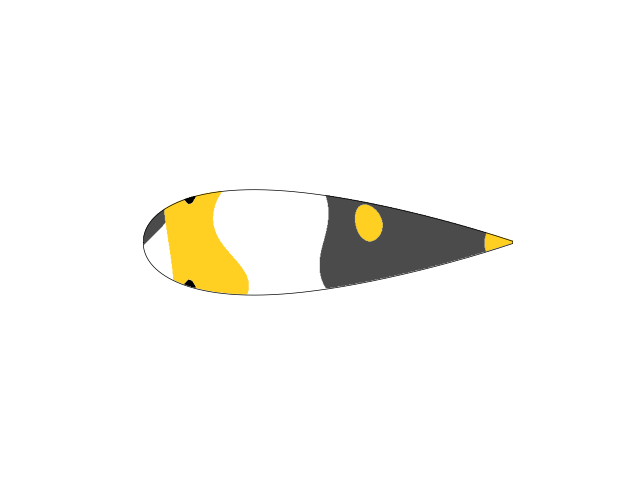
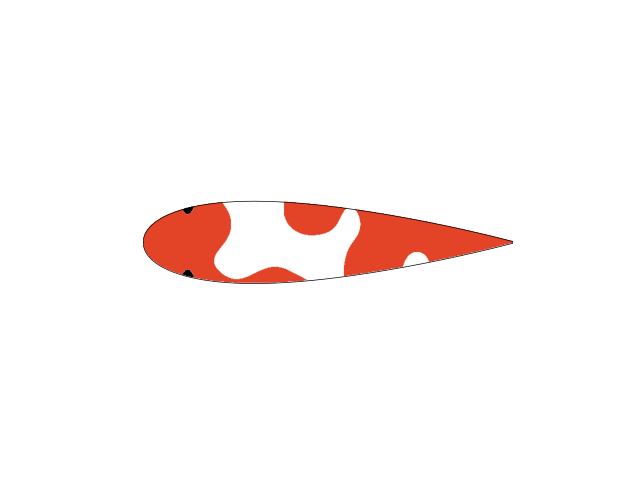
Testing threading KOI 'worked'

Changed region(s): [[0.2188, 0.375, 0.8125, 0.625]]

diff --git a/testing.py b/testing.py
@@ -1,15 +1,104 @@
-import math
+from asyncio.windows_events import NULL
+from concurrent.futures import thread
+import tkinter as tk
+from airfoil import *
+import numpy as np
+import time
+from Koi import Koi
+from tkKoi import tkKoi
+from queue import Empty, Queue
+from threading import Thread
 
-dx = 150 - 250
-dy = 350 - 250
 
-if dx > 0 and dy > 0:
-    target_angle = math.degrees(math.atan(dy/dx)) - 180
-elif dx > 0 and dy < 0:
-    target_angle = math.degrees(math.atan(dy/dx)) + 180
-elif dx < 0 and dy > 0:
-    target_angle = math.degrees(math.atan(dy/dx))
-elif dx < 0 and dy < 0:
-    target_angle = math.degrees(math.atan(dy/dx))
+red1 = np.array((227, 68, 39, 255))
+orange1 = np.array((241, 99, 35, 255))
+yellow1 = np.array((255, 208, 33, 255))
+black1 = np.array((75, 75, 75, 255))
+white = np.array((255, 255, 255, 255))
+transparent = np.array((255, 255, 255, 0))
+eyeblack = np.array((0, 0, 0, 255))
 
-print(target_angle)
+color_list = [ red1,
+                orange1,
+                yellow1,
+                black1
+                ]
+
+WIDTH = 1000
+HEIGHT = 1000
+MARGIN = 50
+
+thrd = []
+q = Queue()
+queue = []
+t = []
+fish = []
+tk_fish = []
+new_loc = []
+
+number_of_koi = 1
+
+def main():
+
+    for i in range(number_of_koi):
+        color_num = np.random.randint(1,2)
+        layer = None
+        layer = []
+        for j in range(color_num):
+            layer.append(color_list[np.random.randint(0,4)])
+
+        thrd.append(Thread(target=creating_koi, args=(i, layer,)))
+        thrd[i].start()
+        # fish.append(Koi(("Koi_"+ str(i + 1)), layer))
+    
+    while q.qsize() == number_of_koi:
+        fish.append(q)
+
+    window = tk.Tk()
+    canvas =  tk.Canvas(window, width=WIDTH, height=HEIGHT, bg='skyblue')
+    canvas.pack()
+
+    for i in range(len(fish)):
+        x, y = random_location()
+        tk_fish.append(tkKoi(window, canvas, x, y, fish[i].filename))
+        t.append(Thread(target=new_location, args=(np.random.randint(2,4),)))
+        queue.append(Queue(maxsize=1))
+        new_location(i, 0)
+        new_loc.append(None)
+
+    while True:
+        for i in range(len(fish)):
+            if queue[i].empty():
+                if not t[i].is_alive():
+                    t[i] = None
+                    t[i] = Thread(target=new_location, args=(i,np.random.randint(2,12),))
+                    t[i].start()
+                    # print("Fish " + str(i) + " change location")
+            else:
+                new_loc[i] = queue[i].get()
+
+            tk_fish[i].move(new_loc[i])
+
+        window.update()
+        time.sleep(0.01)
+
+    window.mainloop()
+
+
+def creating_koi(index : int, layer : list) -> Koi:
+    q.put(Koi(("Koi_"+ str(index + 1)), layer))
+
+
+def new_location(q_index : int, delay : int):
+    time.sleep(delay)
+    queue[q_index].put(random_location())
+
+
+def random_location():
+    x = np.random.randint(MARGIN, WIDTH - MARGIN)
+    y = np.random.randint(MARGIN, HEIGHT - MARGIN)
+    print(x, y)
+    return [x, y]
+
+if __name__== "__main__":
+    main()
